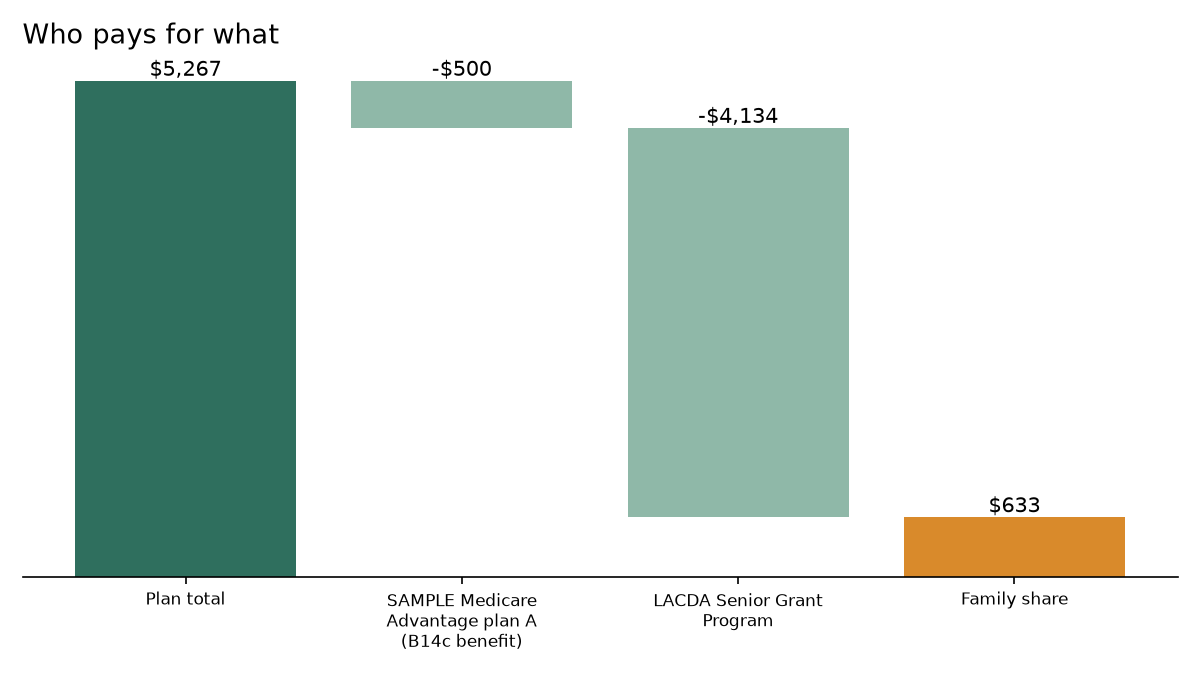
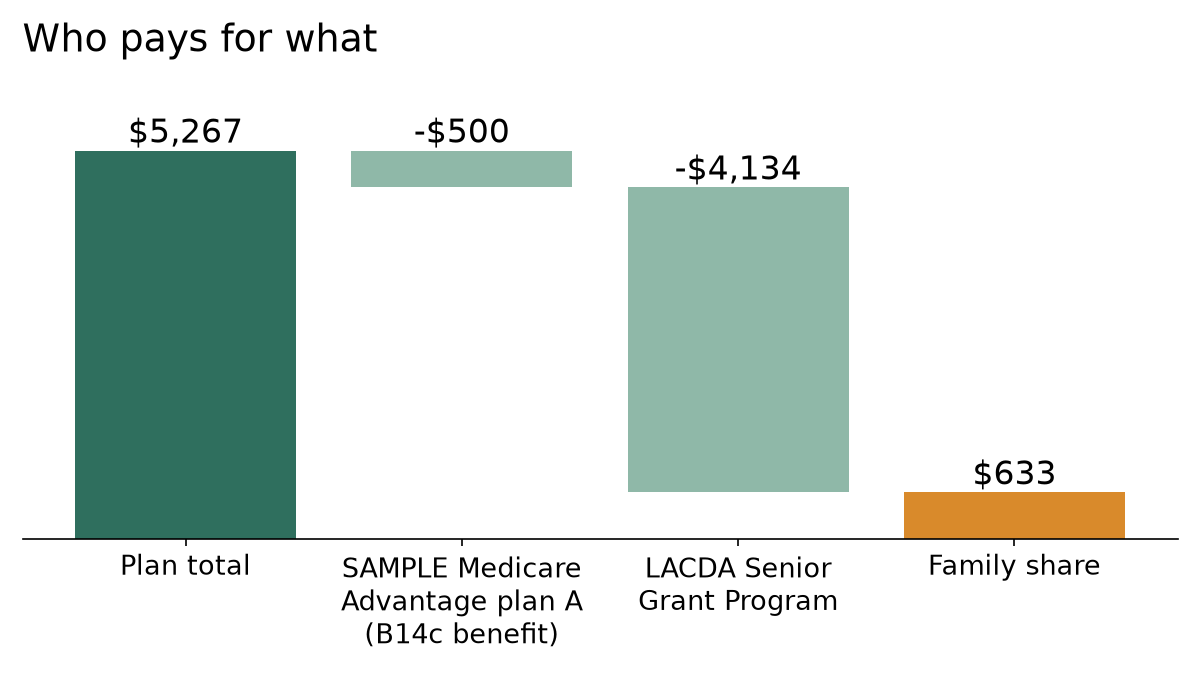
Polish the completion, review, consent and intake cards and enlarge chart text
The completion card names this chat's half and the pending one, matching the balance request. The review card's insurance line reads as already included, not a second deduction. Review and consent become custom cards so Approve plan and Maria agrees are real primary buttons. The income field is text with a $38,000 placeholder, since ASI:One's number input cut 38000 off. Waterfall labels are larger, with headroom under the title; Maria's chart is re-rendered.

diff --git a/shared/cards.py b/shared/cards.py
@@ -146,7 +146,7 @@ def _prefilled(fields: list[dict], defaults: dict | None) -> list[dict]:
         if d is not None and f["kind"] == "select":
             f["options"] = sorted(f["options"], key=lambda o: o["value"] != d)
         elif d is not None:
-            f["placeholder"] = str(d)
+            f["placeholder"] = f"${int(d):,}" if f["name"] == "annual_income" else str(d)
         out.append(f)
     return out
 
@@ -163,7 +163,9 @@ def intake_card(session_id: str, insurance_options: list[dict] | None = None, de
              "options": [{"value": "owner", "label": "Owns the home"}, {"value": "renter", "label": "Rents"}]},
             {"name": "months_owned", "kind": "number", "label": "Months owned (owners; 2 years = 24)"},
             {"name": "household_size", "kind": "number", "label": "People in the household", "required": True},
-            {"name": "annual_income", "kind": "number", "label": "Household income per year (USD, approximate)", "required": True},
+            # Text, not number: ASI:One's number input cut "38000" to "3800C"; "$38,000" parses the same way.
+            {"name": "annual_income", "kind": "text", "label": "Household income per year (USD, approximate)", "required": True,
+             "placeholder": "$38,000"},
             {"name": "insurance_plan", "kind": "select", "label": "Health plan", "required": True,
              "options": insurance_options or INSURANCE_OPTIONS},
             {"name": "concern", "kind": "text", "label": "What worries you most at home?", "placeholder": "Slippery tub, dark hallway at night"},
@@ -479,31 +481,37 @@ def plan_review_card(session_id: str, quote_id: str, items: list[str], contracto
         {"label": "Today", "value": today_line(m)},
     ]
     if m["benefits_now_cents"]:
-        rows.append({"label": "Insurance benefit (applied today)", "value": f"-{usd(m['benefits_now_cents'])}"})
+        # Already subtracted in the Today line, so no minus sign: it must not read as a second deduction.
+        rows.append({"label": "Insurance benefit (already included above)", "value": usd(m["benefits_now_cents"])})
     rows.append({"label": "Balance for today's fixes", "value": f"{usd(m['balance_cents'])} after the work passes a completion check"})
     rows += [{"label": "After grant approval", "value": line.removeprefix("After grant approval: ")} for line in grant_lines(m)]
-    return "review", {
-        "title": "Review the plan",
-        "summary_rows": rows,
-        "approve_cta": {"label": "Approve plan", "primary": True, "selection": _sel("approve", session_id, **ids)},
-        "reject_cta": {"label": "Cancel", "selection": _sel("cancel", session_id, **ids)},
-    }
+    return _decision_card("Review the plan", rows,
+                          ("Approve plan", _sel("approve", session_id, **ids)), ("Cancel", _sel("cancel", session_id, **ids)))
+
+
+def _decision_card(title: str, rows: list[dict], approve: tuple[str, dict], reject: tuple[str, dict]) -> tuple[str, dict]:
+    """Summary rows with a primary approve button and a secondary reject button.
+
+    A review card's approve_cta rendered pale in ASI:One even with primary set, like the carousel's CTA."""
+    return "custom", {"root": {"type": "section", "title": title, "children": [
+        {"type": "list", "items": [{"children": [{"type": "text", "value": r["label"], "style": "muted"},
+                                                 {"type": "text", "value": r["value"], "style": "body"}]} for r in rows]},
+        {"type": "group", "direction": "row", "gap": 8, "children": [
+            {"type": "button", "label": approve[0], "primary": True, "action": {"selection": approve[1]}},
+            {"type": "button", "label": reject[0], "action": {"selection": reject[1]}},
+        ]},
+    ]}}
 
 
 # ---- 9. elder consent (review) ---------------------------------------------
 
 def consent_card(session_id: str, quote_id: str, parent_name: str, items: list[str], date: str) -> tuple[str, dict]:
     ids = {"quote_id": quote_id}
-    return "review", {
-        "title": f"{parent_name} has reviewed this plan",
-        "summary_rows": [
-            {"label": "What changes", "value": ", ".join(items)},
-            {"label": "When", "value": date},
-            {"label": "Who decides", "value": f"{parent_name}. Nothing is booked without this consent."},
-        ],
-        "approve_cta": {"label": f"{parent_name} agrees", "primary": True, "selection": _sel("consent", session_id, **ids)},
-        "reject_cta": {"label": "Not yet", "selection": _sel("decline", session_id, **ids)},
-    }
+    return _decision_card(f"{parent_name} has reviewed this plan", [
+        {"label": "What changes", "value": ", ".join(items)},
+        {"label": "When", "value": date},
+        {"label": "Who decides", "value": f"{parent_name}. Nothing is booked without this consent."},
+    ], (f"{parent_name} agrees", _sel("consent", session_id, **ids)), ("Not yet", _sel("decline", session_id, **ids)))
 
 
 # ---- 10. family split (form) -----------------------------------------------
@@ -591,12 +599,20 @@ def booking_card(session_id: str, booking_id: str, contractor_name: str, date: s
     ]}}
 
 
-def completion_card(session_id: str, booking_id: str, photo_url: str, balance_cents: int) -> tuple[str, dict]:
-    """Informational (terminal): the balance itself is a RequestPayment sent next to this card."""
+def completion_card(session_id: str, booking_id: str, photo_url: str, balance_cents: int,
+                    your_share_cents: int | None = None, pending_names: list[str] | None = None,
+                    share_word: str = "share") -> tuple[str, dict]:
+    """Informational (terminal): the balance itself is a RequestPayment sent next to this card.
+
+    With other payers, the text names this chat's share so it matches the payment amount."""
+    text = f"The remaining {usd(balance_cents)} is now due."
+    if pending_names and your_share_cents is not None:
+        pending = "; ".join(f"{n}'s {share_word} is pending" for n in pending_names)
+        text += f" Your {share_word}: {usd(your_share_cents)}; {pending}."
     return "custom", {"root": {"type": "section", "title": "Work completed", "subtitle": f"Booking {booking_id}", "children": [
         {"type": "image", "src": image_src(photo_url), "alt": "Finished bathroom", "aspect_ratio": "16:9"},
         {"type": "badge", "label": "Completion check passed", "variant": "success"},
-        {"type": "text", "value": f"The remaining {usd(balance_cents)} is now due."},
+        {"type": "text", "value": text},
     ]}}
 
 

diff --git a/tests/test_cards.py b/tests/test_cards.py
@@ -265,12 +265,17 @@ def test_funding_summary_two_tracks():
     assert funding_summary(legacy)["due_now_cents"] == 374_550 - 16_000
 
 
+def review_rows(payload: dict) -> dict[str, str]:
+    rows = next(c for c in payload["root"]["children"] if c["type"] == "list")["items"]
+    return {r["children"][0]["value"]: r["children"][1]["value"] for r in rows}
+
+
 def test_two_track_wording_on_funding_review_split():
     from shared.cards import funding_card, plan_review_card, split_card
     funding = json.dumps(funding_card(SID, "q_mesa_1", FUNDING, 30, LABELS)[1])
     assert TODAY in funding and "After grant approval: " + LATER in funding
     review = plan_review_card(SID, "q_mesa_1", ["Grab bar"], "Mesa", "2026-10-19", FUNDING, 30, LABELS)[1]
-    rows = {r["label"]: r["value"] for r in review["summary_rows"]}
+    rows = review_rows(review)
     assert rows["Today"] == TODAY and rows["After grant approval"] == LATER
     for text in (funding, json.dumps(review)):
         assert "guaranteed approval" not in text.lower() and "will be approved" not in text.lower()
@@ -439,3 +444,37 @@ def test_quote_buttons_are_primary():
 def test_steadi_cards_say_how_to_answer():
     from shared.cards import steadi_card
     assert all("Tap each statement that applies." in steadi_card(SID, part)[1]["title"] for part in (1, 2))
+
+
+def test_review_and_consent_have_primary_approve_buttons():
+    from shared.cards import consent_card, plan_review_card
+    for kind, payload in (plan_review_card(SID, "q_arbor_1", ["Grab bar"], "Arbor", "2026-10-22", FUNDING, 30, LABELS),
+                          consent_card(SID, "q_arbor_1", "Maria", ["Grab bar"], "2026-10-22")):
+        approve, reject = next(c for c in payload["root"]["children"] if c["type"] == "group")["children"]
+        assert kind == "custom" and approve["primary"] is True and not reject.get("primary")
+        assert approve["label"] in ("Approve plan", "Maria agrees")
+        assert element_depth(payload["root"]) <= MAX_DEPTH
+
+
+def test_review_insurance_line_is_not_a_second_deduction():
+    from shared.cards import plan_review_card
+    rows = review_rows(plan_review_card(SID, "q_arbor_1", ["Grab bar"], "Arbor", "2026-10-22", FUNDING, 30, LABELS)[1])
+    label = "Insurance benefit (already included above)"
+    assert label in rows and not rows[label].startswith("-")
+
+
+def test_completion_card_names_this_chats_half():
+    from shared.cards import completion_card
+    text = json.dumps(completion_card(SID, "bk_arbor_1", "assets/fallback/b1/after.png", 44_341, 22_171, ["Leo"], "half"))
+    assert "The remaining $443.41 is now due. Your half: $221.71; Leo's half is pending." in text
+    alone = json.dumps(completion_card(SID, "bk_arbor_1", "assets/fallback/b1/after.png", 44_341))
+    assert "The remaining $443.41 is now due." in alone and "Your" not in alone
+
+
+def test_income_field_is_text_shown_in_dollars():
+    from shared import demo
+    from shared.cards import intake_card
+    field = next(f for f in intake_card(SID, defaults=demo.MARIA_INTAKE)[1]["fields"] if f["name"] == "annual_income")
+    assert field["kind"] == "text" and field["placeholder"] == "$38,000"
+    from agents.orchestrator.flow import _int
+    assert _int("$38,000") == 38_000

diff --git a/agents/visualizer/render.py b/agents/visualizer/render.py
@@ -29,6 +29,8 @@ CACHE = ROOT / "assets" / "cache"
 CHARTS = ROOT / "assets" / "charts"
 
 MODEL = "gemini-2.5-flash-image"
+# Waterfall text sizes: the chart is shown scaled down in a chat card, so labels need to be large.
+VALUE_FONT, LABEL_FONT, TITLE_FONT = 16, 13, 18
 GEMINI_TIMEOUT_S = 25
 FONT = "/System/Library/Fonts/Helvetica.ttc"
 
@@ -186,21 +188,22 @@ def render_waterfall(total_cents: int, covered: list[tuple[str, int]], family_sh
     fig, ax = plt.subplots(figsize=(8, 4.5), dpi=150)
     running = total_cents / 100
     ax.bar(0, running, color="#2f6f5e")
-    ax.text(0, running, f"${running:,.0f}", ha="center", va="bottom", fontsize=10)
+    ax.text(0, running, f"${running:,.0f}", ha="center", va="bottom", fontsize=VALUE_FONT)
     for i, (_, cents) in enumerate(covered, 1):
         amt = cents / 100
         running -= amt
         ax.bar(i, amt, bottom=running, color="#8fb8a8")
-        ax.text(i, running + amt, f"-${amt:,.0f}", ha="center", va="bottom", fontsize=10)
+        ax.text(i, running + amt, f"-${amt:,.0f}", ha="center", va="bottom", fontsize=VALUE_FONT)
     last = len(labels) - 1
     ax.bar(last, family_share_cents / 100, color="#d98a2b")
-    ax.text(last, family_share_cents / 100, f"${family_share_cents / 100:,.0f}", ha="center", va="bottom", fontsize=10)
+    ax.text(last, family_share_cents / 100, f"${family_share_cents / 100:,.0f}", ha="center", va="bottom", fontsize=VALUE_FONT)
     ax.set_xticks(range(len(labels)))
-    ax.set_xticklabels([textwrap.fill(l, 18) for l in labels], fontsize=8)
+    ax.set_xticklabels([textwrap.fill(l, 16) for l in labels], fontsize=LABEL_FONT)
     ax.set_yticks([])
     for s in ("top", "right", "left"):
         ax.spines[s].set_visible(False)
-    ax.set_title("Who pays for what", fontsize=13, loc="left")
+    ax.set_ylim(0, total_cents / 100 * 1.18)  # room for the value labels under the title
+    ax.set_title("Who pays for what", fontsize=TITLE_FONT, loc="left", pad=14)
     fig.tight_layout()
     fig.savefig(out)
     plt.close(fig)

diff --git a/agents/orchestrator/billing.py b/agents/orchestrator/billing.py
@@ -294,7 +294,10 @@ async def complete(ctx: Context, s: dict) -> None:
         p["charges"]["balance"] = {"amount_cents": amount, "paid": False}
     booking = s["data"].get("booking", {})
     photo = f"assets/fallback/{s['data'].get('bathroom_id', 'b1')}/after.png"
+    even_pair = len(payers) == 2 and not s["data"].get("split_percents")
     await flow.show(ctx, s, "The work is done and passed the completion check.",
-                    cards.completion_card(sid, booking.get("booking_id", ""), photo, m["balance_cents"]), terminal=True)
+                    cards.completion_card(sid, booking.get("booking_id", ""), photo, m["balance_cents"],
+                                          shares[0], [p["name"] for p in payers[1:]], "half" if even_pair else "share"),
+                    terminal=True)
     flow.transition(ctx, s, "BALANCE")
     await request_charge(ctx, s, "balance", s["sender"])

diff --git a/tests/sim_client.py b/tests/sim_client.py
@@ -404,6 +404,8 @@ async def pay(ctx: Context) -> int:
         await ctx.send(orch, text_message("/complete"))
         texts, (kind, payload) = await card_titled("Work completed")
         req = await next_payment(RequestPayment)
+        share = f"Your half: ${float(req.accepted_funds[0].amount):,.2f}; Leo's half is pending."
+        assert share in json.dumps(payload), f"completion card does not say {share!r}"
         print(f"PASS  {'COMPLETE':14s}        completion card + balance request {req.accepted_funds[0].amount} USD")
         await pay_one(ctx, orch, req, "BALANCE")
         texts = await drain_chat(3)
